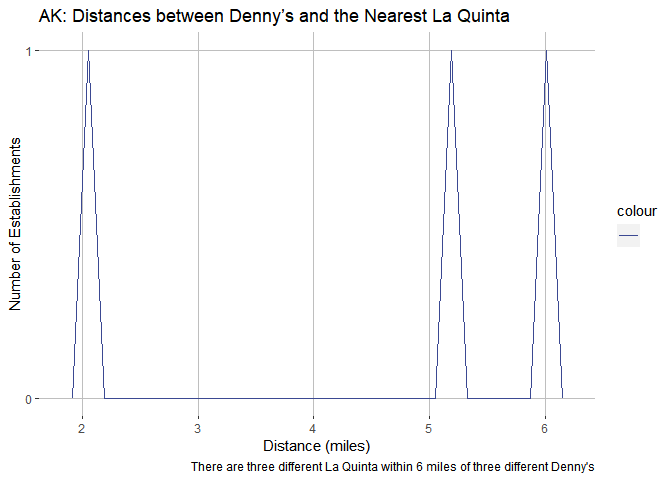
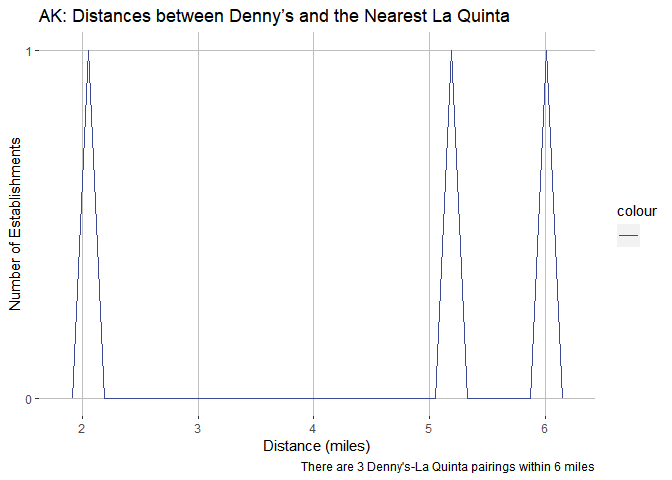
txandnc

Changed region(s): [[0.2812, 0.9375, 0.875, 1.0]]

diff --git a/lab-05.md b/lab-05.md
@@ -134,7 +134,7 @@ dn_lq_ak_mindist <- dn_lq_ak %>%
 library(ggsci)
 
 ggplot(data = dn_lq_ak_mindist, 
-       mapping = aes(x = closest, color = " ", show.legend = FALSE)) + scale_color_aaas() + geom_freqpoly() + scale_y_continuous(breaks = c(0, 1, 2)) + scale_x_continuous(breaks = c(0, 1, 2, 3, 4, 5, 6)) + xlab("Distance (miles)") + ylab("Number of Establishments") + ggtitle("AK: Distances between Denny’s and the Nearest La Quinta") + labs(caption = "There are three different La Quinta within 6 miles of three different Denny's") +
+       mapping = aes(x = closest, color = " ", show.legend = FALSE)) + scale_color_aaas() + geom_freqpoly() + scale_y_continuous(breaks = c(0, 1, 2)) + scale_x_continuous(breaks = c(0, 1, 2, 3, 4, 5, 6)) + xlab("Distance (miles)") + ylab("Number of Establishments") + ggtitle("AK: Distances between Denny’s and the Nearest La Quinta") + labs(caption = "There are 3 Denny's-La Quinta pairings within 6 miles") +
   theme(
   panel.background = element_rect(fill = NA),
   panel.grid.major = element_line(colour = "grey"),
@@ -158,3 +158,125 @@ summary(dn_lq_ak_mindist)
     ##                     Max.   :5.998
 
 ### Exercise 9
+
+``` r
+dn_nc <- dennys %>%
+  filter(state == "NC")
+
+lq_nc <- laquinta %>%
+  filter(state == "NC")
+
+dn_lq_nc <- full_join(dn_nc, lq_nc, by = "state")
+dn_lq_nc
+```
+
+    ## # A tibble: 336 × 11
+    ##    address.x     city.x state zip.x longi…¹ latit…² addre…³ city.y zip.y longi…⁴
+    ##    <chr>         <chr>  <chr> <chr>   <dbl>   <dbl> <chr>   <chr>  <chr>   <dbl>
+    ##  1 1 Regent Par… Ashev… NC    28806   -82.6    35.6 165 Hw… "\nBo… 28607   -81.7
+    ##  2 1 Regent Par… Ashev… NC    28806   -82.6    35.6 3127 S… "\nCh… 28208   -80.9
+    ##  3 1 Regent Par… Ashev… NC    28806   -82.6    35.6 4900 S… "\nCh… 28217   -80.9
+    ##  4 1 Regent Par… Ashev… NC    28806   -82.6    35.6 4414 D… "\nDu… 27707   -79.0
+    ##  5 1 Regent Par… Ashev… NC    28806   -82.6    35.6 1910 W… "\nDu… 27713   -78.9
+    ##  6 1 Regent Par… Ashev… NC    28806   -82.6    35.6 1201 L… "\nGr… 27407   -79.9
+    ##  7 1 Regent Par… Ashev… NC    28806   -82.6    35.6 1607 F… "\nCo… 28613   -81.3
+    ##  8 1 Regent Par… Ashev… NC    28806   -82.6    35.6 191 Cr… "\nCa… 27518   -78.8
+    ##  9 1 Regent Par… Ashev… NC    28806   -82.6    35.6 2211 S… "\nRa… 27612   -78.7
+    ## 10 1 Regent Par… Ashev… NC    28806   -82.6    35.6 1001 A… "\nMo… 27560   -78.8
+    ## # … with 326 more rows, 1 more variable: latitude.y <dbl>, and abbreviated
+    ## #   variable names ¹longitude.x, ²latitude.x, ³address.y, ⁴longitude.y
+
+``` r
+dn_lq_nc <- dn_lq_nc %>%
+  mutate(distance = haversine(long1 = longitude.x, lat1 = latitude.x, long2 = longitude.y, lat2 = latitude.y))
+
+dn_lq_nc_mindist <- dn_lq_nc %>%
+  dplyr::group_by(address.x) %>%
+  dplyr::summarize(closest = min(distance))
+
+
+ggplot(data = dn_lq_nc_mindist, 
+       mapping = aes(x = closest, color = " ", show.legend = FALSE)) + scale_color_aaas() + geom_freqpoly() + xlab("Distance (miles)") + ylab("Number of Establishments") + ggtitle("NC: Distances between Denny’s and the Nearest La Quinta") + labs(caption = "There are 28 Denny's-La Quinta pairings within 200 miles") +
+  theme(
+  panel.background = element_rect(fill = NA),
+  panel.grid.major = element_line(colour = "grey"),
+) 
+```
+
+    ## `stat_bin()` using `bins = 30`. Pick better value with `binwidth`.
+
+![](lab-05_files/figure-gfm/nc_graph-1.png)<!-- -->
+
+``` r
+summary(dn_lq_nc_mindist)
+```
+
+    ##   address.x            closest       
+    ##  Length:28          Min.   :  1.779  
+    ##  Class :character   1st Qu.: 22.388  
+    ##  Mode  :character   Median : 53.456  
+    ##                     Mean   : 65.444  
+    ##                     3rd Qu.: 93.985  
+    ##                     Max.   :187.935
+
+### Exercise 10
+
+``` r
+dn_tx <- dennys %>%
+  filter(state == "TX")
+
+lq_tx <- laquinta %>%
+  filter(state == "TX")
+
+dn_lq_tx <- full_join(dn_tx, lq_tx, by = "state")
+dn_lq_tx
+```
+
+    ## # A tibble: 47,400 × 11
+    ##    address.x     city.x state zip.x longi…¹ latit…² addre…³ city.y zip.y longi…⁴
+    ##    <chr>         <chr>  <chr> <chr>   <dbl>   <dbl> <chr>   <chr>  <chr>   <dbl>
+    ##  1 120 East I-20 Abile… TX    79601   -99.6    32.4 3018 C… "\nAb… 79606   -99.8
+    ##  2 120 East I-20 Abile… TX    79601   -99.6    32.4 3501 W… "\nAb… 79601   -99.7
+    ##  3 120 East I-20 Abile… TX    79601   -99.6    32.4 14925 … "\nAd… 75254   -96.8
+    ##  4 120 East I-20 Abile… TX    79601   -99.6    32.4 909 Ea… "\nAl… 78516   -98.1
+    ##  5 120 East I-20 Abile… TX    79601   -99.6    32.4 2400 E… "\nAl… 78332   -98.0
+    ##  6 120 East I-20 Abile… TX    79601   -99.6    32.4 1220 N… "\nAl… 75013   -96.7
+    ##  7 120 East I-20 Abile… TX    79601   -99.6    32.4 1165 H… "\nAl… 76009   -97.2
+    ##  8 120 East I-20 Abile… TX    79601   -99.6    32.4 880 So… "\nAl… 77511   -95.2
+    ##  9 120 East I-20 Abile… TX    79601   -99.6    32.4 1708 I… "\nAm… 79103  -102. 
+    ## 10 120 East I-20 Abile… TX    79601   -99.6    32.4 9305 E… "\nAm… 79118  -102. 
+    ## # … with 47,390 more rows, 1 more variable: latitude.y <dbl>, and abbreviated
+    ## #   variable names ¹longitude.x, ²latitude.x, ³address.y, ⁴longitude.y
+
+``` r
+dn_lq_tx <- dn_lq_tx %>%
+  mutate(distance = haversine(long1 = longitude.x, lat1 = latitude.x, long2 = longitude.y, lat2 = latitude.y))
+
+dn_lq_tx_mindist <- dn_lq_tx %>%
+  dplyr::group_by(address.x) %>%
+  dplyr::summarize(closest = min(distance))
+
+
+ggplot(data = dn_lq_tx_mindist, 
+       mapping = aes(x = closest, color = " ", show.legend = FALSE)) + scale_color_aaas() + geom_freqpoly() + xlab("Distance (miles)") + ylab("Number of Establishments") + ggtitle("TX: Distances between Denny’s and the Nearest La Quinta") + labs(caption = "There are 200 Denny's-La Quinta pairings within 60 miles") +
+  theme(
+  panel.background = element_rect(fill = NA),
+  panel.grid.major = element_line(colour = "grey"),
+) 
+```
+
+    ## `stat_bin()` using `bins = 30`. Pick better value with `binwidth`.
+
+![](lab-05_files/figure-gfm/tx_graph-1.png)<!-- -->
+
+``` r
+summary(dn_lq_tx_mindist)
+```
+
+    ##   address.x            closest       
+    ##  Length:200         Min.   : 0.0160  
+    ##  Class :character   1st Qu.: 0.7305  
+    ##  Mode  :character   Median : 3.3715  
+    ##                     Mean   : 5.7918  
+    ##                     3rd Qu.: 6.6303  
+    ##                     Max.   :60.5820
